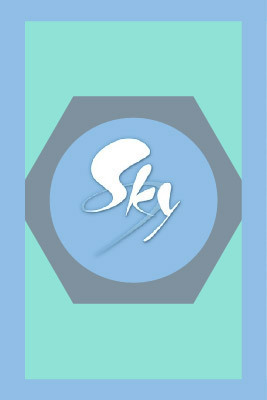
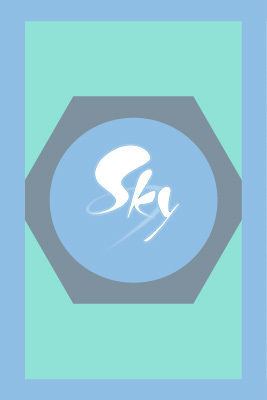
Added new Sky Kindom cards and updated deck back image of this faction!

Changed region(s): [[0.2996, 0.33, 0.6891, 0.63], [0.4494, 0.57, 0.5094, 0.6], [0.3895, 0.6, 0.4494, 0.63]]

diff --git a/javascript/cards.js b/javascript/cards.js
@@ -2617,7 +2617,7 @@ var card_dict = [
     filename: "vernontemeria_call",
     count: "0",
   },
-  // New cards for sky
+  // Custom faction or something
   {
     name: "Hopeful Steward",
     id: "3001",
@@ -2821,7 +2821,6 @@ var card_dict = [
     filename: "vault_elder_s2e",
     count: "0",
   },
-  // SYNDICATE FACTION
   {
     name: "Fisstech",
     id: "4001",
@@ -2851,6 +2850,27 @@ var card_dict = [
     ability: "emhyr_whiteflame2",
     filename: "king_of_beggers",
     count: "0",
+  },
+  {
+    name: "Days Of Nature Guide",
+    id: "3031",
+    deck: "sky",
+    row: "agile",
+    strength: "1",
+    ability: "reinforce",
+    filename: "natureguide",
+    count: "1",
+  },
+  {
+    name: "The Ocean Cleanup",
+    id: "3032",
+    deck: "sky",
+    row: "siege",
+    strength: "4",
+    ability: "morale",
+    filename: "naturecollab",
+    count: "0",
+    reinforce: { owner_name: "Days Of Nature Guide", spawn_count: 1 },
   },
 ]; // syndicate_king_of_beggers.jpg
 
